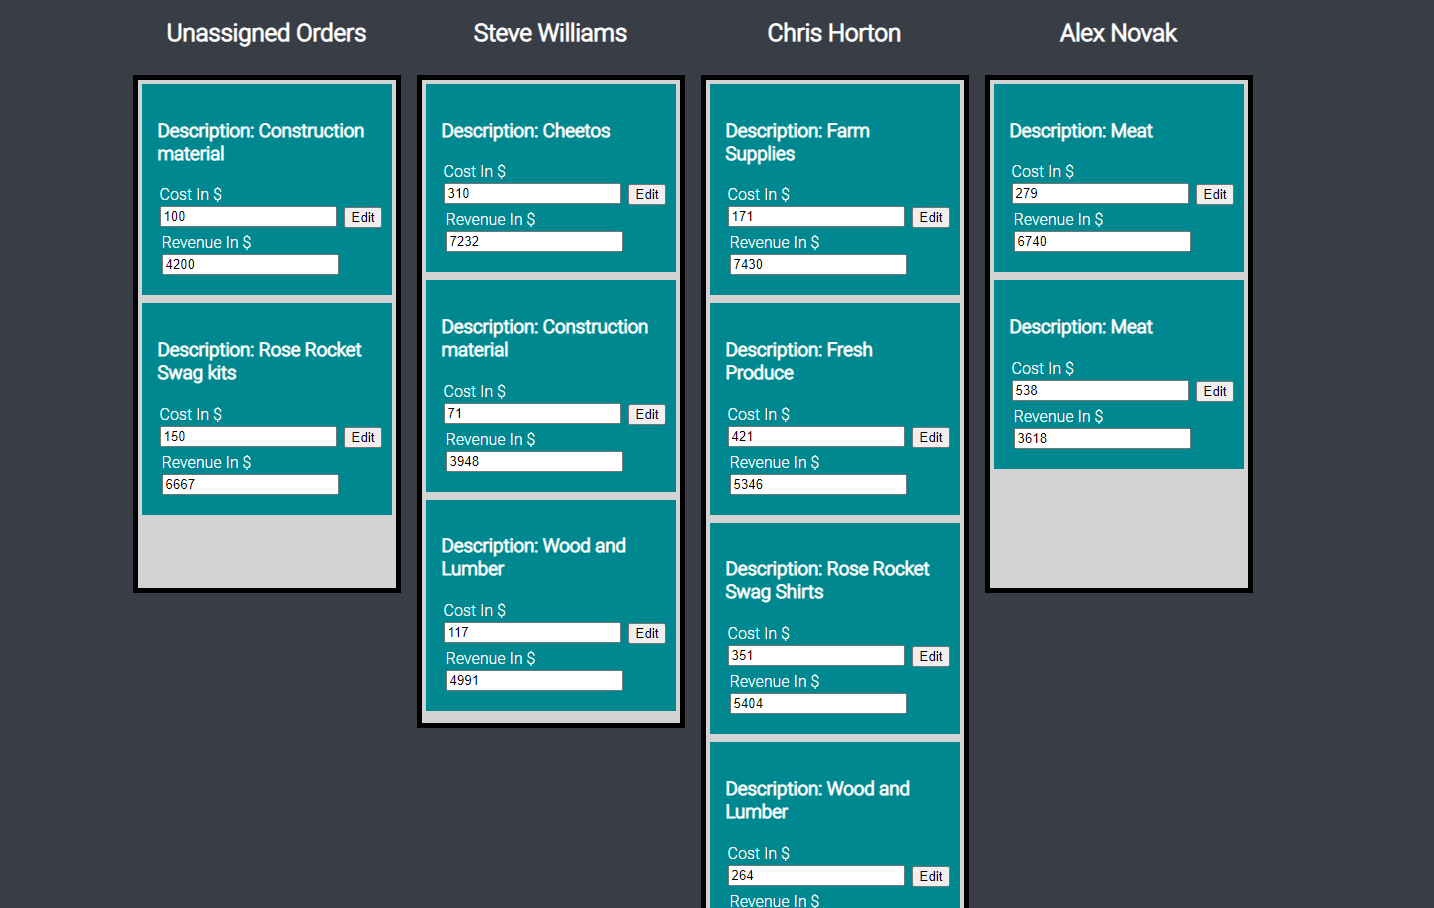
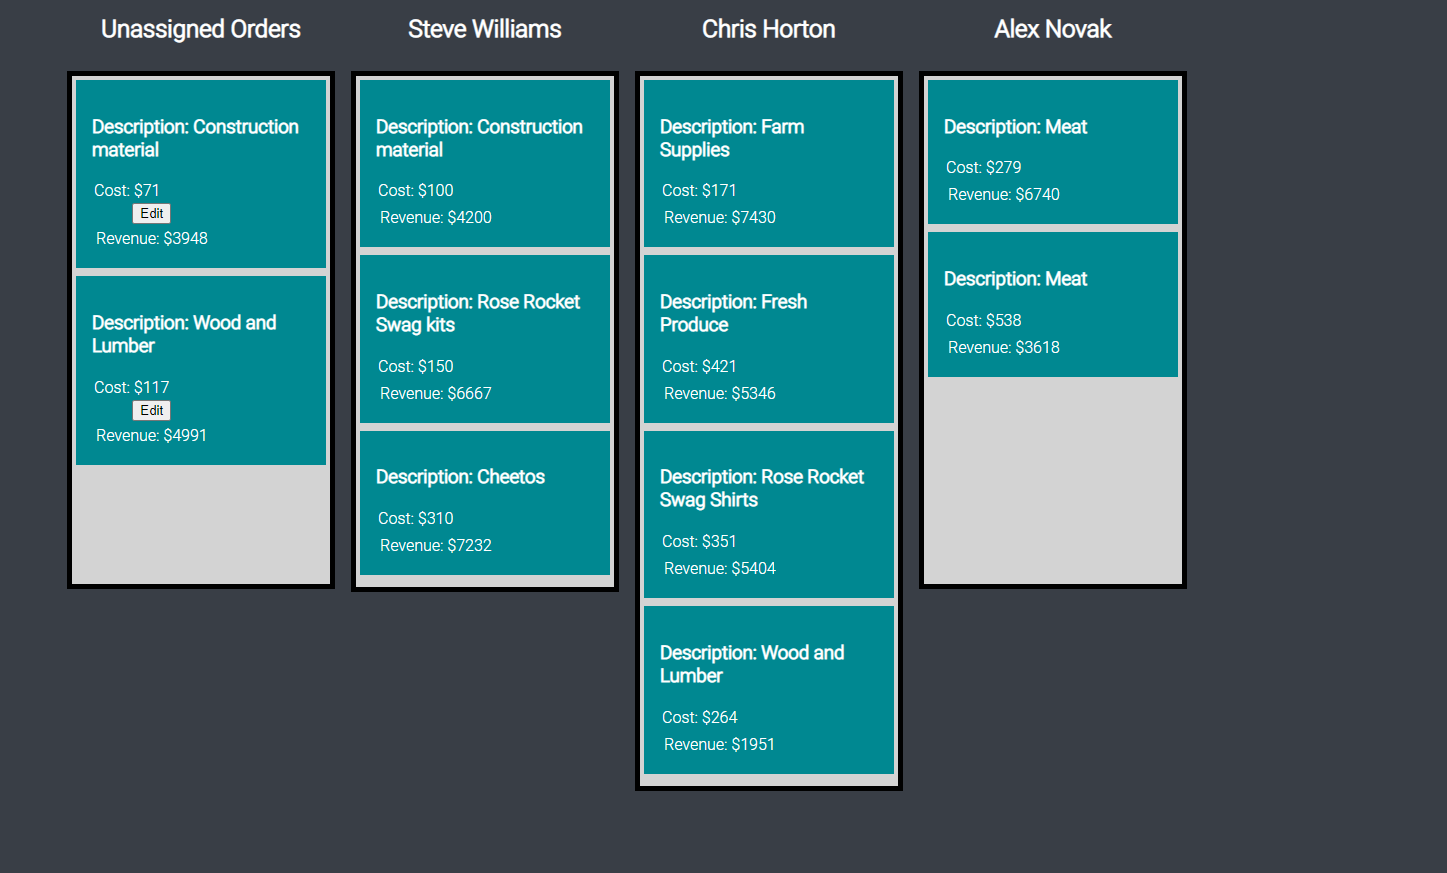
Add conditional rendering to order

diff --git a/client/src/Components/Order.js b/client/src/Components/Order.js
@@ -15,6 +15,80 @@ const Order = (props) => {
     editable: false,
     buttonText: "Edit",
   });
+  const buttonHandler = ()=>{
+      if(item.driver_id === 1){
+        return (
+          <button
+          type="submit"
+          onClick={(e) => {
+            if (item.driver_id !== 1) {
+              return;
+            }
+            if (state.editable) {
+              editCost(item.id, state.newCost, item.driver_id);
+              editRevenue(
+                item.id,
+                state.newRevenue,
+                item.driver_id
+              );
+              setState((prevState) => {
+                return {
+                  ...prevState,
+                  cost: state.newCost,
+                  revenue: state.newRevenue,
+                  editable: false,
+                  buttonText: "Edit",
+                };
+              });
+            } else {
+              setState((prevState) => {
+                return {
+                  ...prevState,
+                  editable: true,
+                  buttonText: "Save",
+                };
+              });
+            }
+          }}
+        >
+          {state.buttonText}
+        </button>
+        )
+      }
+  }
+  const revenueInputDisplayHandler = ()=>{
+      if(item.driver_id === 1 && state.editable){
+        return(
+          <input
+                    type="text"
+                    className="edit-control"
+                    value={state.newRevenue}
+                    onChange={(d) => {
+                      setState((prevState) => {
+                        return { ...prevState, newRevenue: d.target.value };
+                      });
+                    }}
+                  />
+        )
+      }
+  }
+
+  const costInputDisplayHandler = ()=>{
+    if(item.driver_id === 1 && state.editable){
+      return(
+<input
+                    type="text"
+                    className="edit-control"
+                    value={state.newCost}
+                    onChange={(d) => {
+                      setState((prevState) => {
+                        return { ...prevState, newCost: d.target.value };
+                      });
+                    }}
+                  />
+      )
+    }
+  }
 
   return (
     <Draggable key={item.id} draggableId={item.id.toString()} index={index}>
@@ -40,72 +114,20 @@ const Order = (props) => {
             <table className="table-cont">
               <thead>
                 <tr>
-                  <label>Cost In $</label>
+                  <label>Cost: ${state.cost}</label>
                 </tr>
                 <tr>
-                  <input
-                    type="text"
-                    className="edit-control"
-                    value={state.newCost}
-                    onChange={(d) => {
-                      setState((prevState) => {
-                        return { ...prevState, newCost: d.target.value };
-                      });
-                    }}
-                  />
+                  {costInputDisplayHandler()}
 
                   <th>
-                    <button
-                      type="submit"
-                      onClick={(e) => {
-                        if (item.driver_id !== 1) {
-                          return;
-                        }
-                        if (state.editable) {
-                          editCost(item.id, state.newCost, item.driver_id);
-                          editRevenue(
-                            item.id,
-                            state.newRevenue,
-                            item.driver_id
-                          );
-                          setState((prevState) => {
-                            return {
-                              ...prevState,
-                              cost: state.newCost,
-                              revenue: state.newRevenue,
-                              editable: false,
-                              buttonText: "Edit",
-                            };
-                          });
-                        } else {
-                          setState((prevState) => {
-                            return {
-                              ...prevState,
-                              editable: true,
-                              buttonText: "Save",
-                            };
-                          });
-                        }
-                      }}
-                    >
-                      {state.buttonText}
-                    </button>
+                    {buttonHandler()}
                   </th>
                 </tr>
                 <thead>
                   <tr>
-                    <label>Revenue In $</label>
+                    <label>Revenue: ${state.revenue}</label>
                   </tr>
-                  <input
-                    type="text"
-                    className="edit-control"
-                    value={state.newRevenue}
-                    onChange={(d) => {
-                      setState((prevState) => {
-                        return { ...prevState, newRevenue: d.target.value };
-                      });
-                    }}
-                  />
+                  {revenueInputDisplayHandler()}
                 </thead>
                 <th
                   style={{
